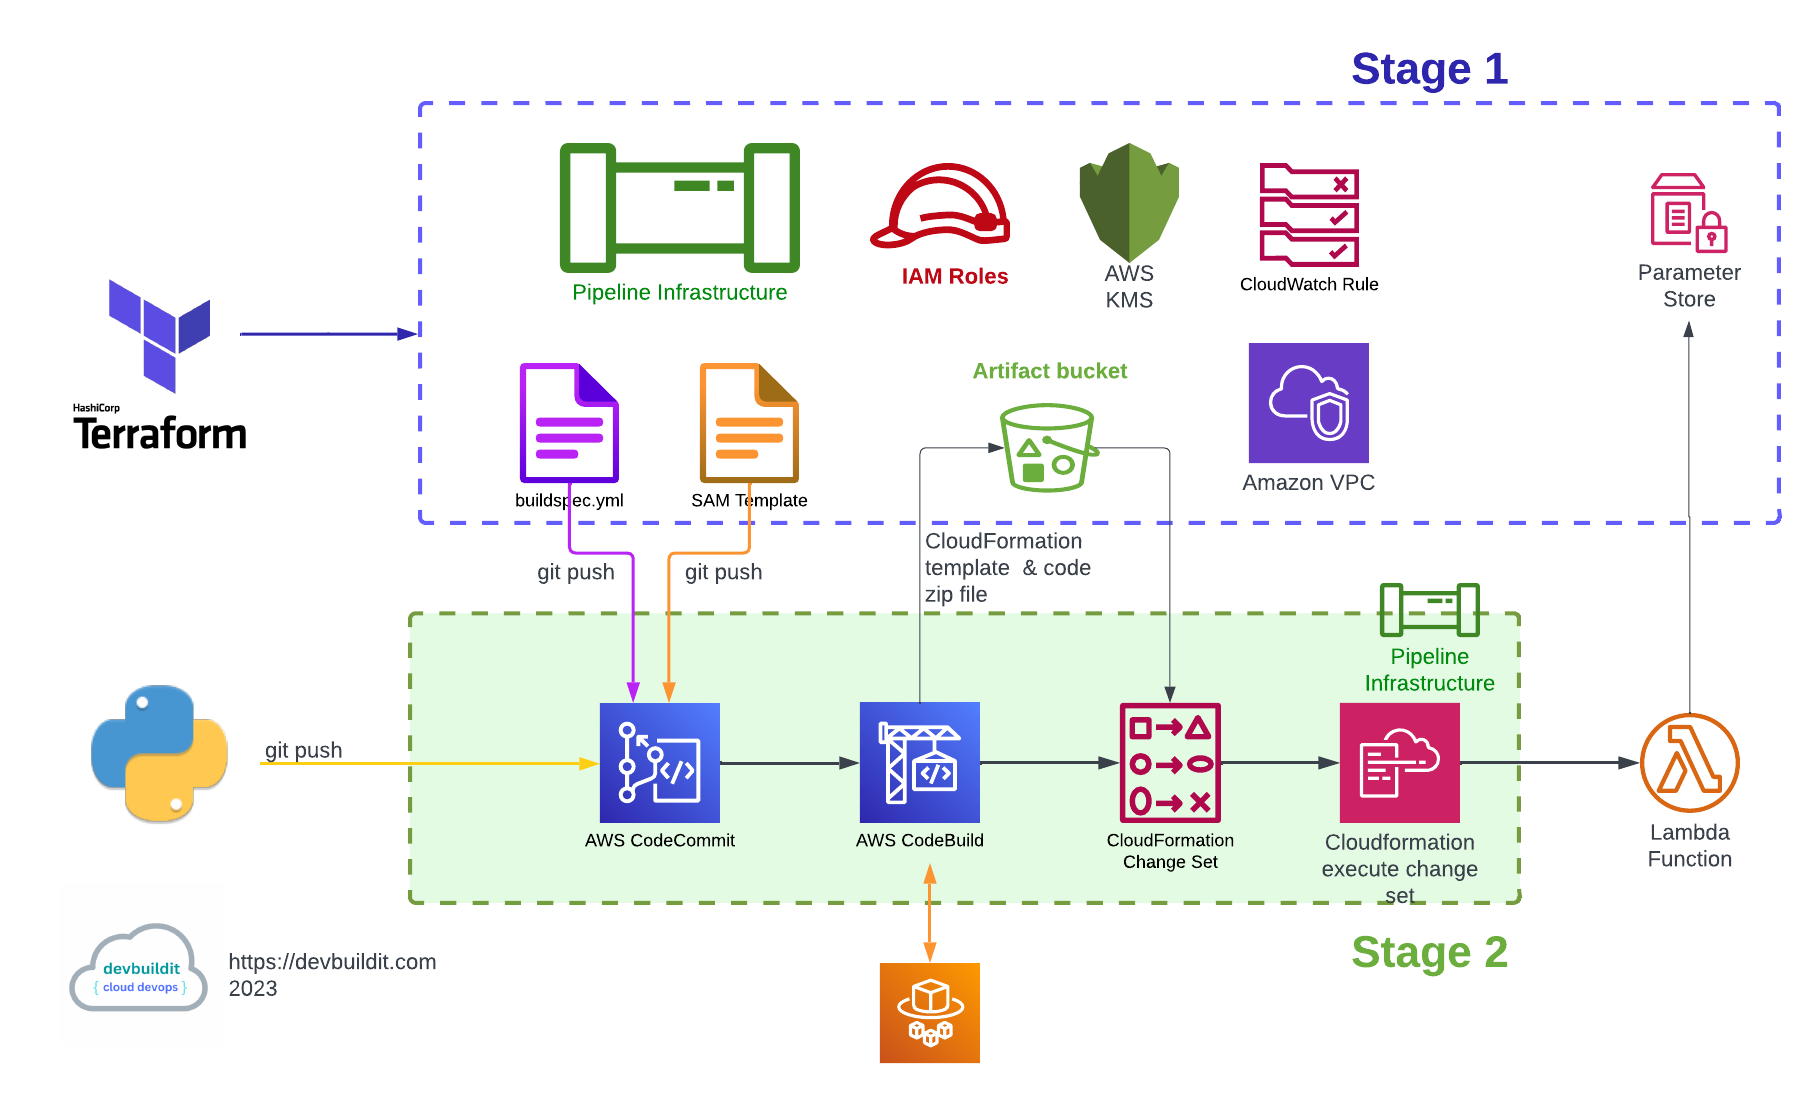
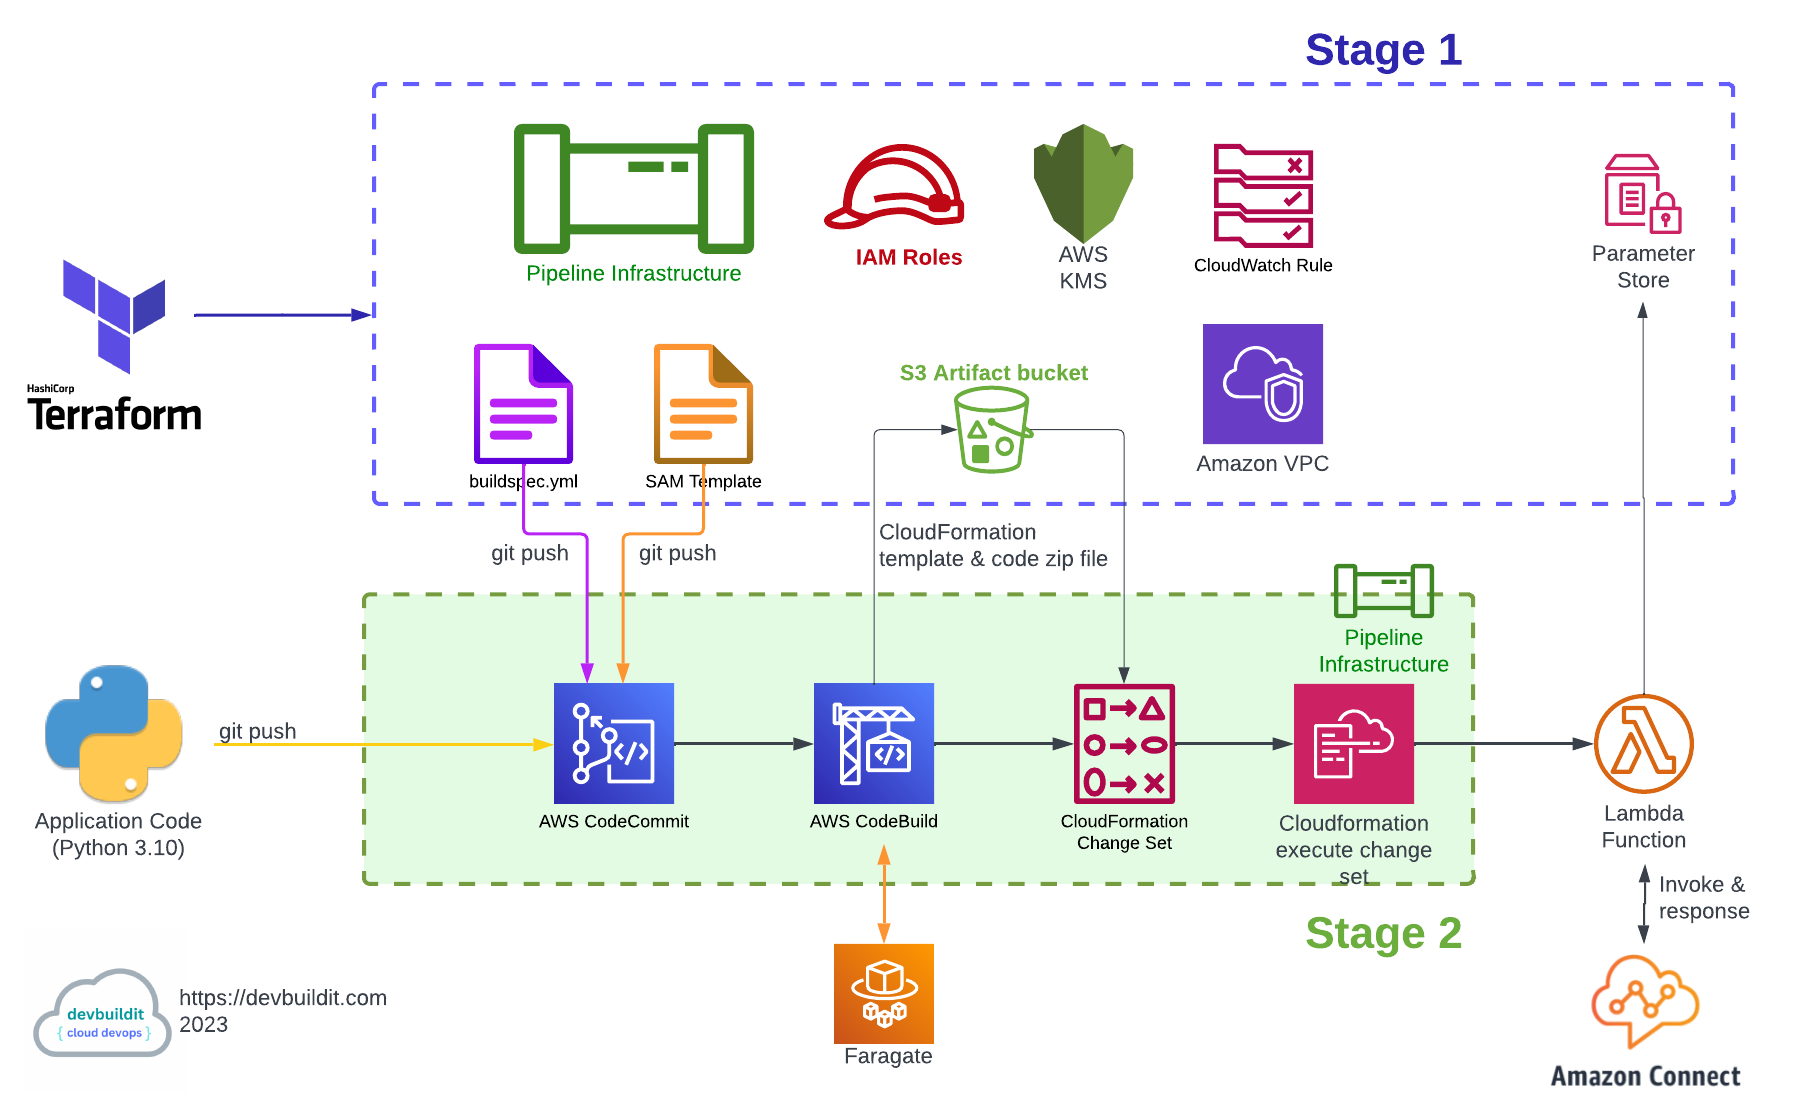
update diagram and tidy up code

diff --git a/README.md b/README.md
@@ -29,5 +29,6 @@ Stage2
 
 ## Tidy up
 - Manually delete CloudFormation stack apicaller
+- Manually empty artifact bucket
 - Run command 'Terraform destroy'
  
